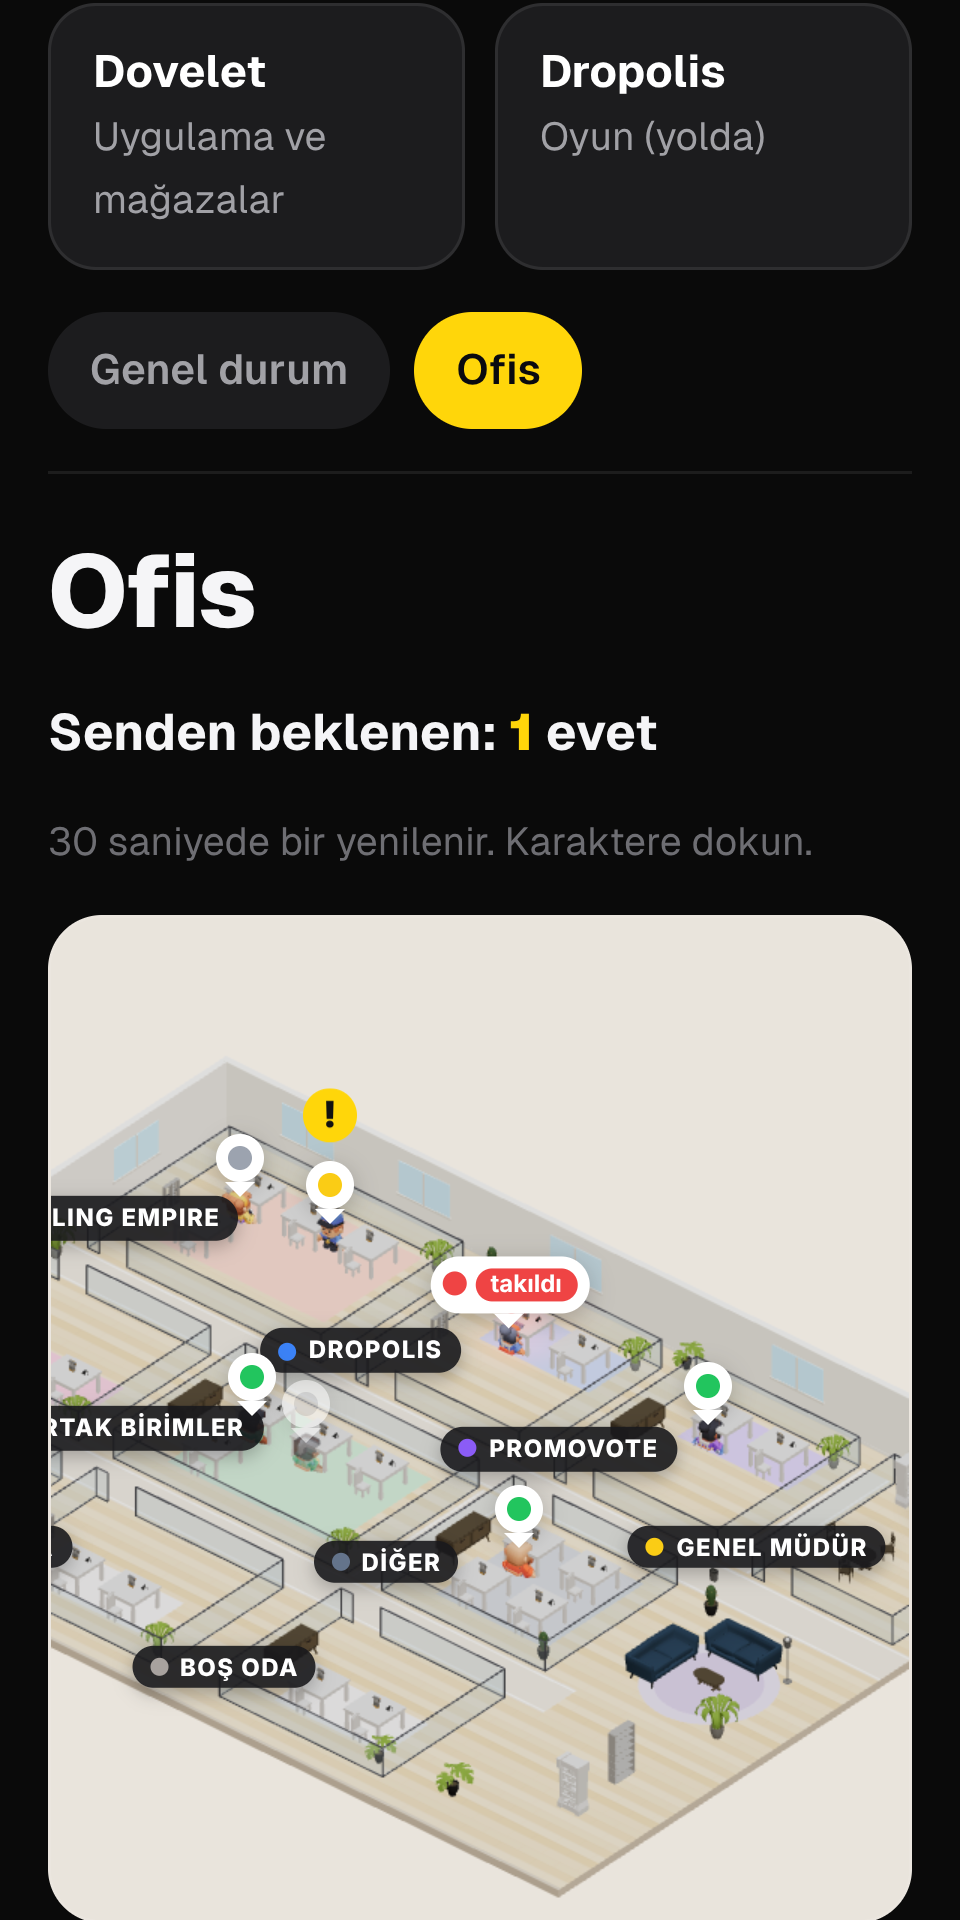
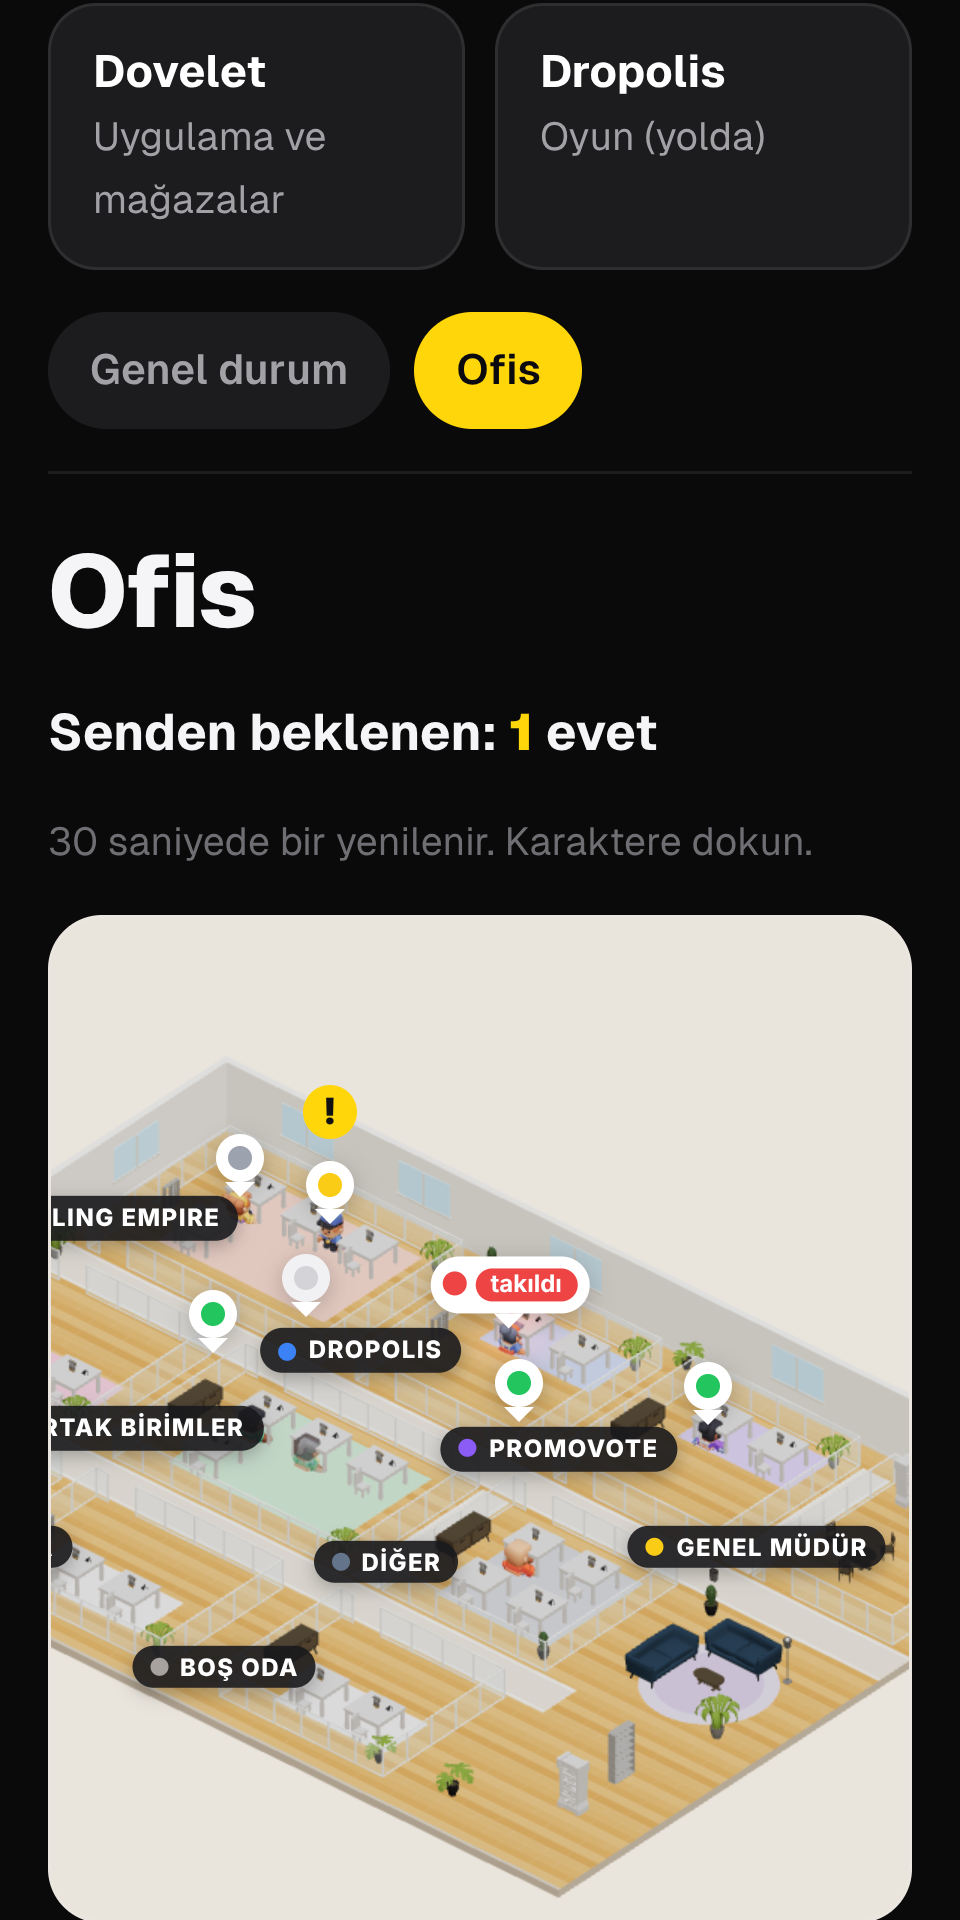
Admin Ofis v3 fixes: no overlapping labels, readable offline names, honey oak floor, white framed glass
Labels and name bubbles take the first free screen spot each frame; a test checks no overlap at desktop and
320 px. Screenshots retaken.

Claude-Session: https://claude.ai/code/session_016Jsgeai3nmEVrWzNSNYGkb

Changed region(s): [[0.0312, 0.5625, 0.9688, 1.0]]

diff --git a/web/landing/public/admin-office.js b/web/landing/public/admin-office.js
@@ -210,11 +210,11 @@ function woodTexture() {
   const c = document.createElement("canvas");
   c.width = 512; c.height = 512;
   const ctx = c.getContext("2d");
-  const tones = ["#e9d2ac", "#e4caa0", "#eed9b6", "#e1c599", "#ebd4ae"];
+  const tones = ["#d9a45f", "#d39b55", "#dfad6b", "#cf9650", "#dca866"]; // honey oak
   for (let i = 0; i < 8; i++) {
     ctx.fillStyle = tones[i % tones.length];
     ctx.fillRect(0, i * 64, 512, 64);
-    ctx.fillStyle = "rgba(130,90,50,.14)";
+    ctx.fillStyle = "rgba(255,236,200,.35)"; // light plank lines
     ctx.fillRect(0, i * 64, 512, 2);
     const off = (i * 137) % 512;
     ctx.fillRect(off, i * 64, 2, 64);
@@ -272,8 +272,8 @@ function corridors(g) {
 }
 
 // Glass room: thin dark frame, clear half height glass, a door gap, a colored rug under the desks.
-const glassMat = new THREE.MeshStandardMaterial({ color: 0xcfe9f7, roughness: 0.05, metalness: 0.1, transparent: true, opacity: 0.3, depthWrite: false });
-const frameMat = new THREE.MeshStandardMaterial({ color: 0x55575e, roughness: 0.6 });
+const glassMat = new THREE.MeshStandardMaterial({ color: 0xe3f2fc, emissive: 0xcfe8f8, emissiveIntensity: 0.25, roughness: 0.05, metalness: 0.1, transparent: true, opacity: 0.3, depthWrite: false });
+const frameMat = new THREE.MeshStandardMaterial({ color: 0xf1f3f5, roughness: 0.5 }); // white frame posts and rails
 function glassWall(g, x1, z1, x2, z2, door) {
   const len = Math.hypot(x2 - x1, z2 - z1);
   const alongX = Math.abs(z2 - z1) < 1e-6;
@@ -286,10 +286,14 @@ function glassWall(g, x1, z1, x2, z2, door) {
     pane.position.set(px, GLASS_H / 2, pz); pane.renderOrder = 2;
     g.add(pane);
     // Top rail and bottom rail.
-    box(g, alongX ? L : 0.035, 0.035, alongX ? 0.035 : L, 0, px, GLASS_H, pz, { mat: frameMat, shadow: false });
+    box(g, alongX ? L : 0.045, 0.04, alongX ? 0.045 : L, 0, px, GLASS_H, pz, { mat: frameMat, shadow: false });
     box(g, alongX ? L : 0.04, 0.04, alongX ? 0.04 : L, 0, px, 0.02, pz, { mat: frameMat, shadow: false });
-    // Thin posts at the ends of each glass run only.
-    for (const t of [a, b]) box(g, 0.04, GLASS_H, 0.04, 0, alongX ? x1 + t : x1, GLASS_H / 2, alongX ? z1 : z1 + t, { mat: frameMat, shadow: false });
+    // White posts at the corners, at the door and between every glass panel (about 1.2 m wide).
+    const n = Math.max(1, Math.round(L / 1.2));
+    for (let i = 0; i <= n; i++) {
+      const t = a + (L * i) / n;
+      box(g, 0.05, GLASS_H, 0.05, 0, alongX ? x1 + t : x1, GLASS_H / 2, alongX ? z1 : z1 + t, { mat: frameMat, shadow: false });
+    }
   }
 }
 const doorX = (r) => r.x + 1.1;
@@ -428,23 +432,66 @@ function buildPeople() {
 function syncBubbles() { for (const p of people) p.bubble.classList.toggle("sel", p.agent.id === selected); }
 
 const tmp = new THREE.Vector3();
-function place(elm, v) {
+function project(v) {
   tmp.copy(v).project(camera);
+  return [(tmp.x * 0.5 + 0.5) * stage.clientWidth, (-tmp.y * 0.5 + 0.5) * stage.clientHeight];
+}
+function place(elm, v) {
+  const [x, y] = project(v);
   const w = stage.clientWidth, h = stage.clientHeight;
-  const x = (tmp.x * 0.5 + 0.5) * w, y = (-tmp.y * 0.5 + 0.5) * h;
   const out = x < -60 || x > w + 60 || y < -40 || y > h + 40;
   elm.style.display = out ? "none" : "";
   elm.style.left = x.toFixed(1) + "px"; elm.style.top = y.toFixed(1) + "px";
 }
+// Labels and name bubbles never cover each other (founder 2026-11-13): every frame each one takes the first free spot
+// from a short list of screen offsets around its anchor. Department labels go first, then bubbles from front to back.
+const GAP = 3;
+const hits = (a, b) => a.l < b.r + GAP && b.l < a.r + GAP && a.t < b.b + GAP && b.t < a.b + GAP;
+function settle(items, taken) {
+  for (const it of items) {
+    const { elm, x, y, kind } = it;
+    const w = elm.offsetWidth, h = elm.offsetHeight;
+    // Rectangle for a given offset; the "!" over a waiting person counts as part of the bubble.
+    const bang = kind === "name" && elm.querySelector("b") ? (stage.clientWidth < 600 ? 24 : 28) : 0;
+    const rect = (dx, dy) => kind === "dept"
+      ? { l: x + dx - w / 2, r: x + dx + w / 2, t: y + dy - h / 2, b: y + dy + h / 2 }
+      : { l: x + dx - w / 2, r: x + dx + w / 2, t: y + dy - h - 5 - bang, b: y + dy };
+    const sy = h + GAP + 2, sx = w / 2 + GAP + 2;
+    const tries = kind === "dept"
+      ? [[0, 0], [0, sy], [0, -sy], [sx, 0], [-sx, 0], [0, 2 * sy], [sx, sy], [-sx, sy], [0, -2 * sy]]
+      : [[0, 0], [0, -sy], [sx, 0], [-sx, 0], [sx, -sy], [-sx, -sy], [0, -2 * sy], [0, sy], [sx, -2 * sy], [-sx, -2 * sy], [0, -3 * sy]];
+    let pick = tries[0], r = rect(0, 0);
+    for (const [dx, dy] of tries) {
+      const c = rect(dx, dy);
+      if (!taken.some((o) => hits(c, o))) { pick = [dx, dy]; r = c; break; }
+    }
+    taken.push(r);
+    elm.style.left = (x + pick[0]).toFixed(1) + "px";
+    elm.style.top = (y + pick[1]).toFixed(1) + "px";
+  }
+}
 const head = new THREE.Vector3();
 function placeTags() {
-  for (const t of deptTags) place(t.el, t.pos);
+  const W0 = stage.clientWidth, H0 = stage.clientHeight;
+  const visible = ([x, y]) => x > -60 && x < W0 + 60 && y > -40 && y < H0 + 40;
+  const depts = [], names = [];
+  for (const t of deptTags) {
+    const xy = project(t.pos);
+    t.el.style.display = visible(xy) ? "" : "none";
+    if (visible(xy)) depts.push({ elm: t.el, x: xy[0], y: xy[1], kind: "dept" });
+  }
   for (const p of people) {
     if (p.walking) { p.bubble.style.display = "none"; continue; }
     const base = p.actor ? p.actor.position : new THREE.Vector3(p.slot.x, 0, p.slot.z + 0.72);
     head.set(base.x, p.agent.status === "waiting_owner" ? 1.6 : 1.45, base.z);
-    place(p.bubble, head);
+    const xy = project(head);
+    p.bubble.style.display = visible(xy) ? "" : "none";
+    if (visible(xy)) names.push({ elm: p.bubble, x: xy[0], y: xy[1], kind: "name" });
   }
+  names.sort((a, b) => b.y - a.y);
+  const taken = [];
+  settle(depts, taken);
+  settle(names, taken);
 }
 
 // ---------- mail: walk with an envelope from one desk to another ----------

diff --git a/web/landing/src/index.js b/web/landing/src/index.js
@@ -1173,7 +1173,7 @@ ${a.last_action ? `<p style="margin:0 0 6px">${esc(a.last_action)}</p>` : ""}${a
 .of-name span{overflow:hidden;text-overflow:ellipsis}
 .of-name::after{content:"";position:absolute;left:50%;bottom:-5px;margin-left:-5px;border:5px solid transparent;border-bottom:0;border-top-color:#fff}
 .of-name i{flex:none;width:8px;height:8px;border-radius:50%;background:var(--c)}
-.of-name.off{opacity:.5}.of-name.sel{outline:2px solid #ffd60a}
+.of-name.off{background:#f1f1f3}.of-name.off span{color:#52525b}.of-name.sel{outline:2px solid #ffd60a}
 .of-name b{position:absolute;left:50%;top:-26px;margin-left:-11px;width:22px;height:22px;border-radius:50%;background:#ffd60a;color:#111;font:900 15px/22px system-ui;text-align:center;animation:of-bounce 1s ease-in-out infinite}
 .of-name em{font-style:normal;background:#ef4444;color:#fff;border-radius:6px;padding:1px 5px;font-size:10px}
 .of-pop{position:absolute;transform:translate(-50%,-100%);padding:5px 9px;border-radius:10px;background:#18181b;color:#fff;font:700 11px/1.2 system-ui;white-space:nowrap;max-width:180px;overflow:hidden;text-overflow:ellipsis;animation:of-pop 2.4s ease-out forwards}
